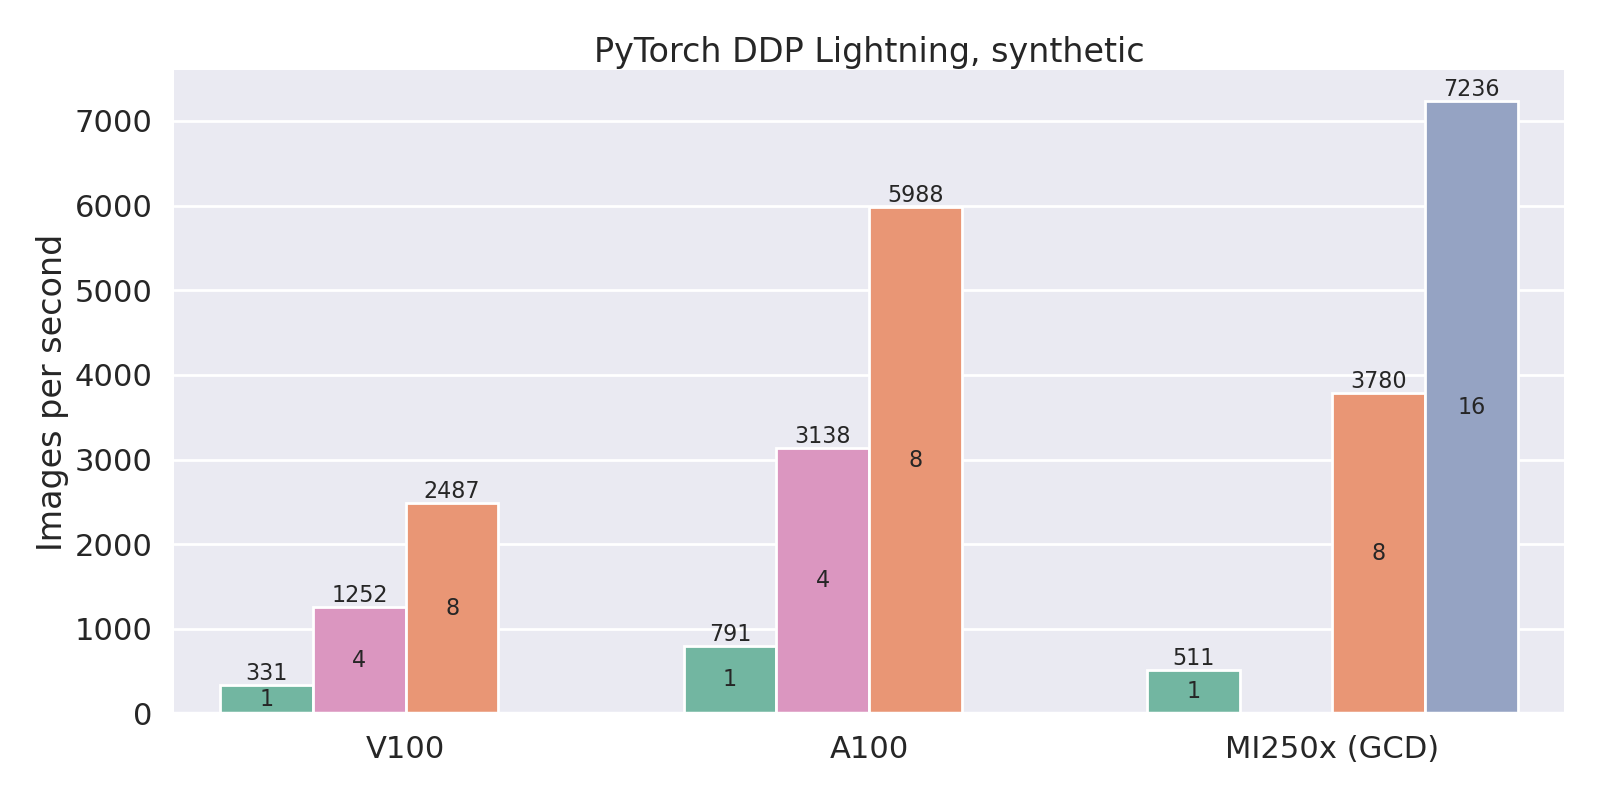
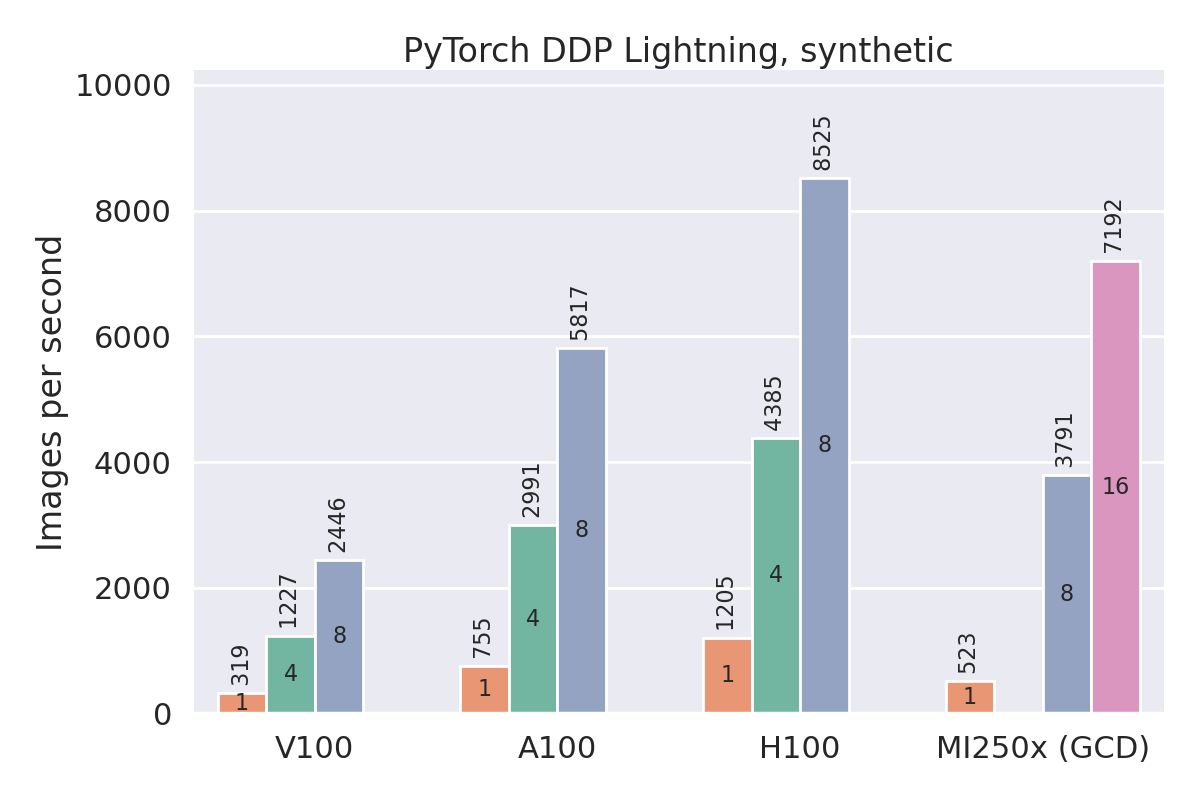
Add Roihu to charts

diff --git a/make_chart.py b/make_chart.py
@@ -2,14 +2,12 @@
 
 import argparse
 import matplotlib.pyplot as plt
-import numpy as np
 import pandas as pd
 import seaborn as sns
 import sys
 
 from datetime import date
 from matplotlib.lines import Line2D
-from pprint import pprint
 
 sns.set(palette="Set2", context="poster")
 
@@ -19,7 +17,7 @@ def split_line(line):
 
 
 def parse_markdown_results(filename):
-    l = []
+    ll = []
     with open(filename) as fp:
         col_titles = [x.lower().replace('/','_') for x in split_line(fp.readline())]
         cols = len(col_titles)
@@ -40,7 +38,7 @@ def parse_markdown_results(filename):
                 print("WARNING: skipping line with error: ", line,
                       file=sys.stderr)
                 continue
-            
+
             val['gpus'] = int(val['gpus'])
             val['date'] = date.fromisoformat(val['date'])
             val['img_sec'] = float(val['img_sec'])
@@ -49,8 +47,9 @@ def parse_markdown_results(filename):
             if 'fp16' in bm:
                 val['options'] = 'fp16'
                 #val['benchmark'] = bm.replace(', fp16','')
-            l.append(val)
-    return l
+            ll.append(val)
+    return ll
+
 
 def mysort(x):
     parts = x.split()
@@ -63,11 +62,14 @@ def mysort(x):
 def make_plot(df, benchmark, options=False):
     df = df[df.benchmark.str.startswith(benchmark)]
 
-    sp=sns.color_palette()
+    sp = sns.color_palette()
     if options:
-        df["gpus_opts"] = df.apply(lambda row: "{} {}".format(row.gpus, row.options), axis=1)
+        df["gpus_opts"] = df.apply(lambda row: "{} {}".format(row.gpus,
+                                                              row.options),
+                                   axis=1)
         df["gpus_opts"] = df["gpus_opts"].astype(
-            pd.CategoricalDtype(categories=sorted(df["gpus_opts"].unique(), key=mysort)))
+            pd.CategoricalDtype(categories=sorted(df["gpus_opts"].unique(),
+                                                  key = mysort)))
 
         #FIXME: should make options more general...
         palette={h: sp[1] if "fp16" in h else sp[0] for h in df["gpus_opts"].unique()}
@@ -78,12 +80,13 @@ def make_plot(df, benchmark, options=False):
         palette = {h: sp[i] for i, h in enumerate(df["gpus"].unique())}
         height = 8
 
-    sys_names = ['puhti', 'mahti', 'lumi']
-    sys_labels = ['V100', 'A100', 'MI250x (GCD)']
+    sys_names = ['puhti', 'mahti', 'roihu', 'lumi']
+    sys_labels = ['V100', 'A100', 'H100', 'MI250x (GCD)']
 
-    g = sns.catplot(data=df, kind="bar", y="img_sec", x="cluster", hue=hue, 
-                    height=height, aspect=2, dodge=True, legend=False, 
+    g = sns.catplot(data=df, kind="bar", y="img_sec", x="cluster", hue=hue,
+                    height=height, aspect=1.5, dodge=True, legend=False,
                     order=sys_names, palette=palette)
+    g.set(ylim=(0, df["img_sec"].max()*1.2))
     g.set_axis_labels("", "Images per second")
     g.set_xticklabels(sys_labels)
     g.ax.set_title("PyTorch " + df['benchmark'].iloc[0])
@@ -95,28 +98,30 @@ def make_plot(df, benchmark, options=False):
     for c in g.ax.containers:
         label = c.get_label().split()[0]
         labels = [label for v in c]
-        g.ax.bar_label(c, labels=labels, size=16, label_type='center') #, rotation=90)
-        g.ax.bar_label(c, size=16, label_type='edge', fmt='%.0f')
+        g.ax.bar_label(c, labels=labels, size=16, label_type='center')
+        g.ax.bar_label(c, size=16, label_type='edge', fmt=' %.0f', rotation=90)
 
         g.despine(left=True)
         g.tight_layout()
 
-    fn = 'pytorch_'+ benchmark.lower().replace(' ', '_').replace(',','') + '.png'
+    fn = 'pytorch_' + benchmark.lower().replace(' ', '_').replace(',', '') + '.png'
     plt.savefig(fn)
     print("Wrote " + fn + ".")
 
-    
+
 def main(args):
     # Parse markdown file to list of dicts
     results = parse_markdown_results(args.results)
-    #pprint(results)
 
-    # Conver to Pandas dataframe
-    orig_df=pd.DataFrame.from_dict(results)
+    # Convert to Pandas dataframe
+    orig_df = pd.DataFrame.from_dict(results)
     orig_df['date'] = pd.to_datetime(orig_df['date'])
 
-    # Filter by date
-    orig_df = orig_df[orig_df.date >= pd.Timestamp("2023-09-28")]
+    # Select the newest result for each benchmark and setup
+    #orig_df = orig_df[orig_df.date >= pd.Timestamp("2024-02-29")]
+    orig_df = orig_df.sort_values(by=['date'], ascending=False)
+    orig_df = orig_df.drop_duplicates(subset=['benchmark', 'cluster', 'gpus', 'options'],
+                            keep='first')
     print(orig_df)
 
     print("Benchmarks:")
@@ -128,7 +133,6 @@ def main(args):
     make_plot(orig_df, "DDP Lightning, synthetic")
     make_plot(orig_df, "DeepSpeed, synthetic")
     make_plot(orig_df, "run_clm, synthetic")
-    
 
 
 if __name__ == "__main__":
@@ -137,5 +141,5 @@ if __name__ == "__main__":
     parser.add_argument('--results', default='results.md', required=False)
 
     args = parser.parse_args()
-    
+
     main(args)

diff --git a/results.md b/results.md
@@ -298,8 +298,8 @@
 | DDP Lightning, synthetic | PyTorch 2.13.0+cu130 | roihu    | 8    | 2026-08-28 | 8525.16 |
 | DDP, Imagenet data | PyTorch 2.13.0+cu130 | roihu    | 1    | 2026-08-28 | 1374.57 |
 | DDP, Imagenet data | PyTorch 2.13.0+cu130 | roihu    | 4    | 2026-08-28 | 4924.27 |
-| DDP, Imagenet data | PyTorch 2.13.0+cu130 | roihu    | 8    | 2026-08-28 | |
-| DeepSpeed, synthetic data | PyTorch 2.13.0+cu130 | roihu    | 4    | 2026-08-28 | |
+| DDP, Imagenet data | PyTorch 2.13.0+cu130 | roihu    | 8    | 2026-08-28 | 9629.81 |
+| DeepSpeed, synthetic data | PyTorch 2.13.0+cu130 | roihu    | 4    | 2026-08-28 | 4385.02 |
 | DeepSpeed, synthetic data | PyTorch 2.13.0+cu130 | roihu    | 8    | 2026-08-28 | 8646.88 |
 | run_clm, synthetic | PyTorch 2.13.0+cu130 | roihu    | 1    | 2026-08-28 | 26.46 |
 | run_clm, synthetic | PyTorch 2.13.0+cu130 | roihu    | 2    | 2026-08-28 | 49.147 |
